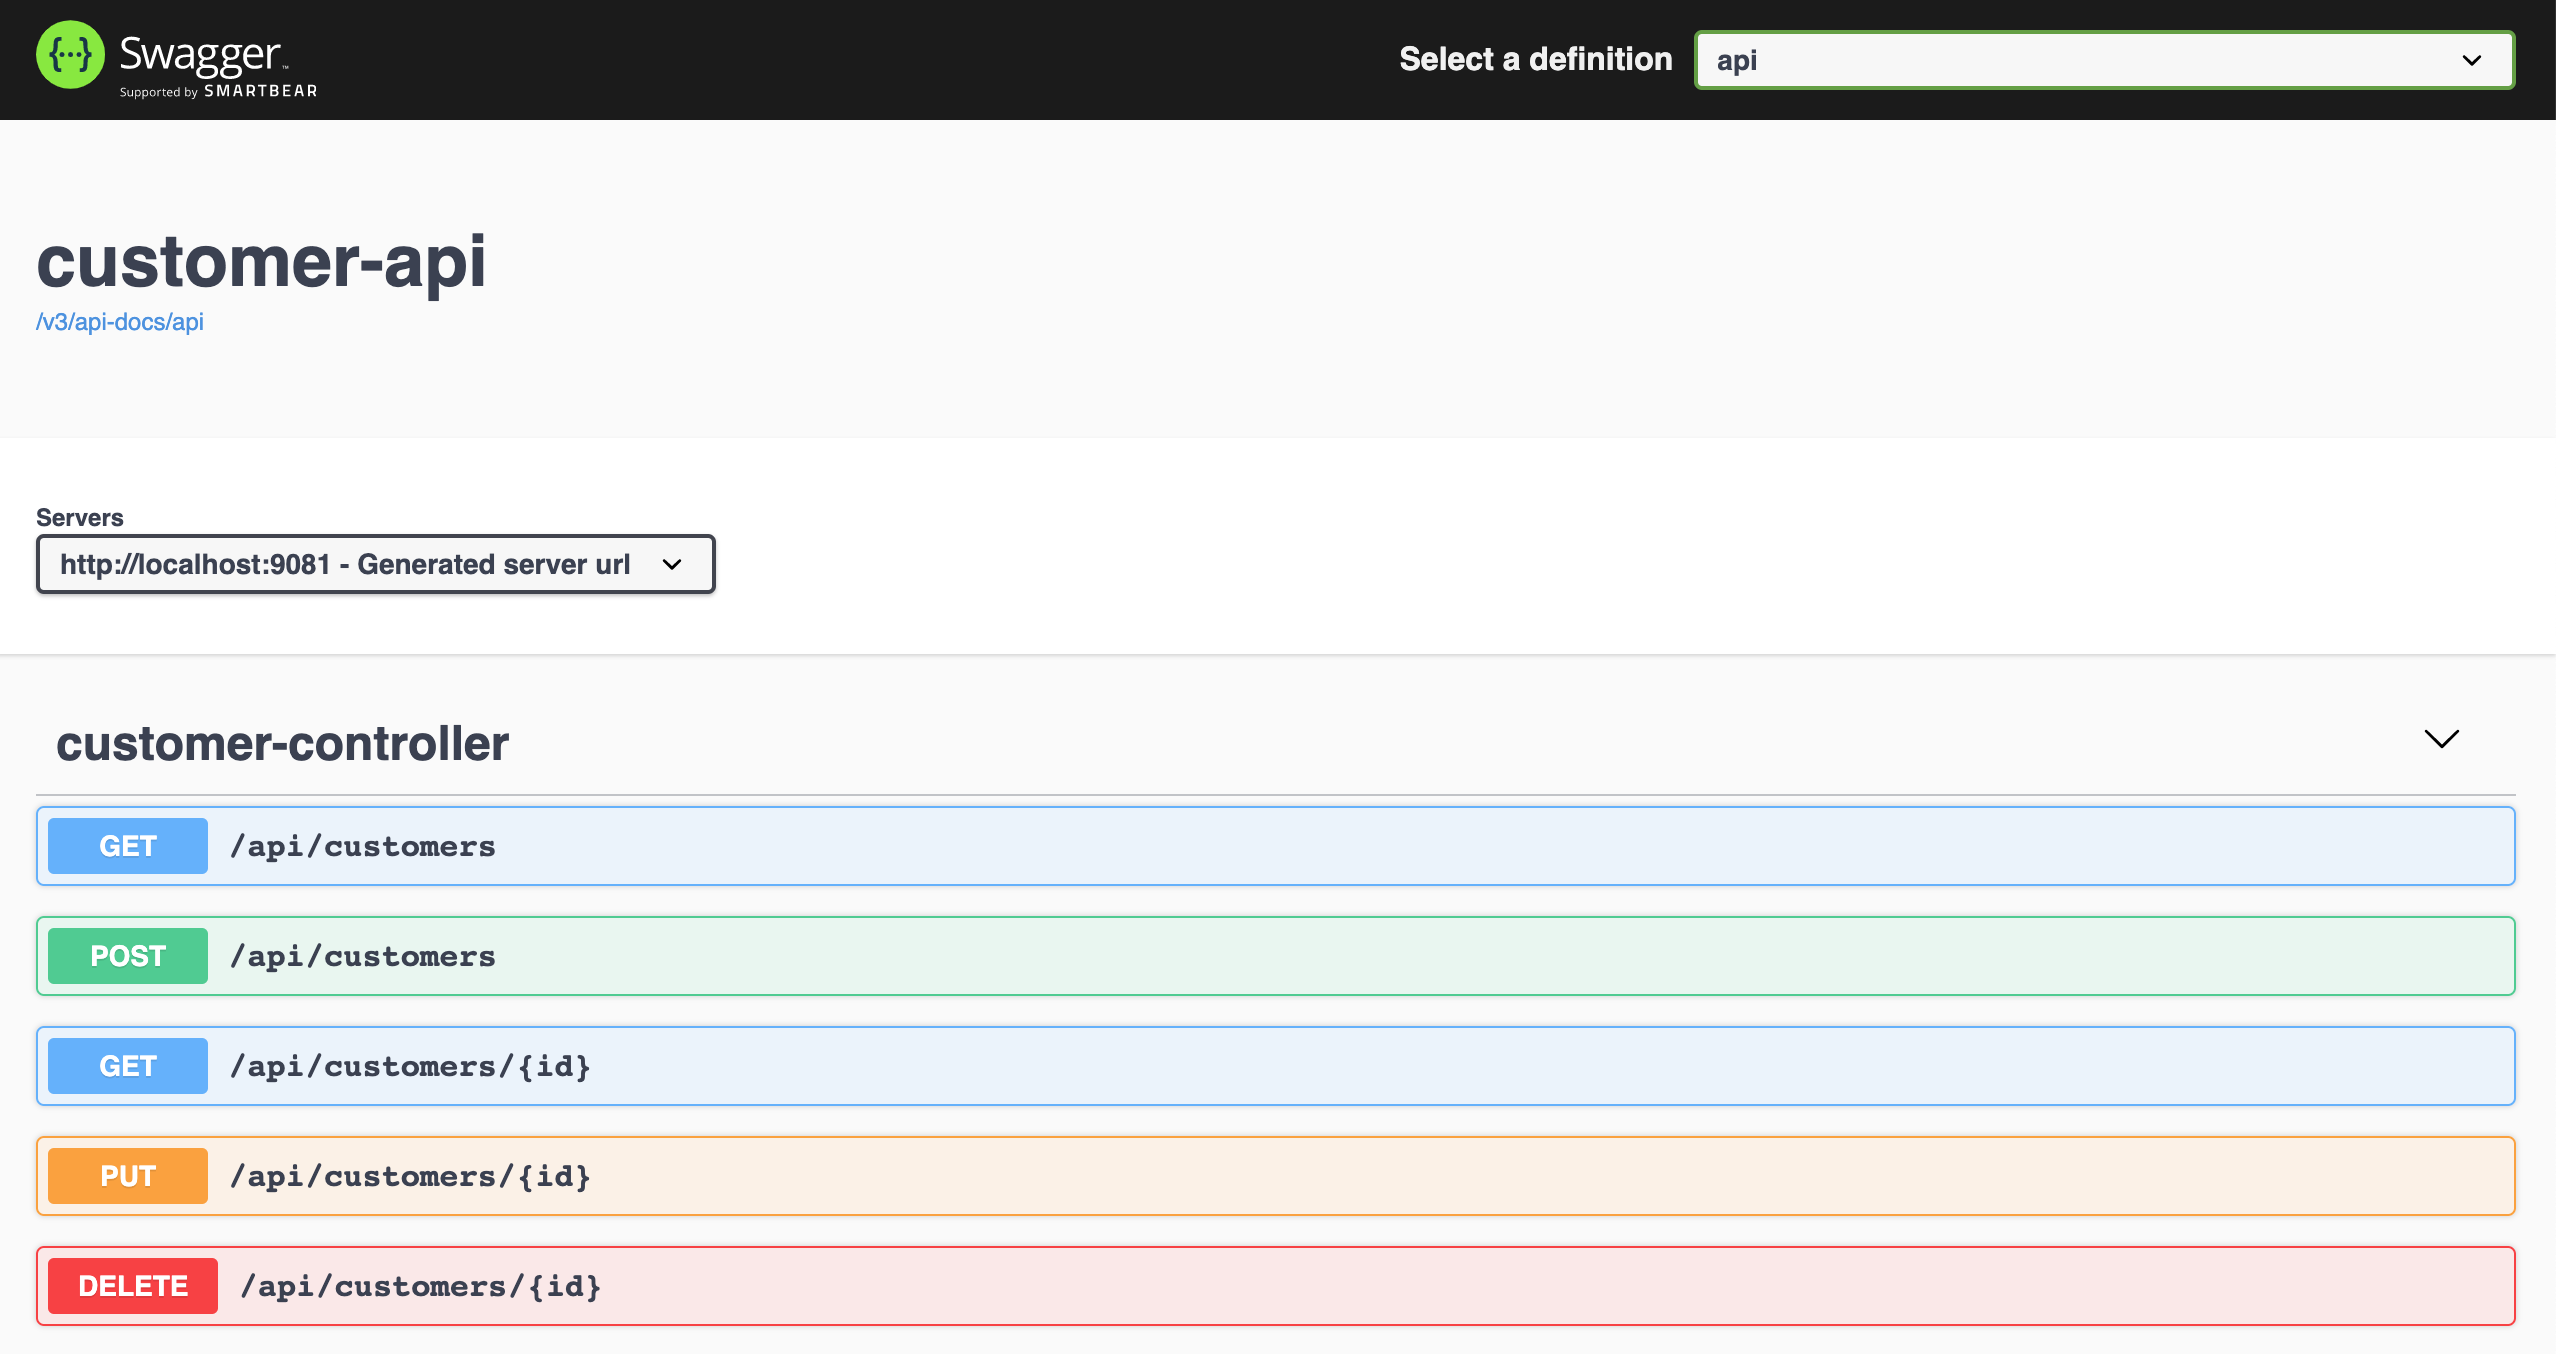
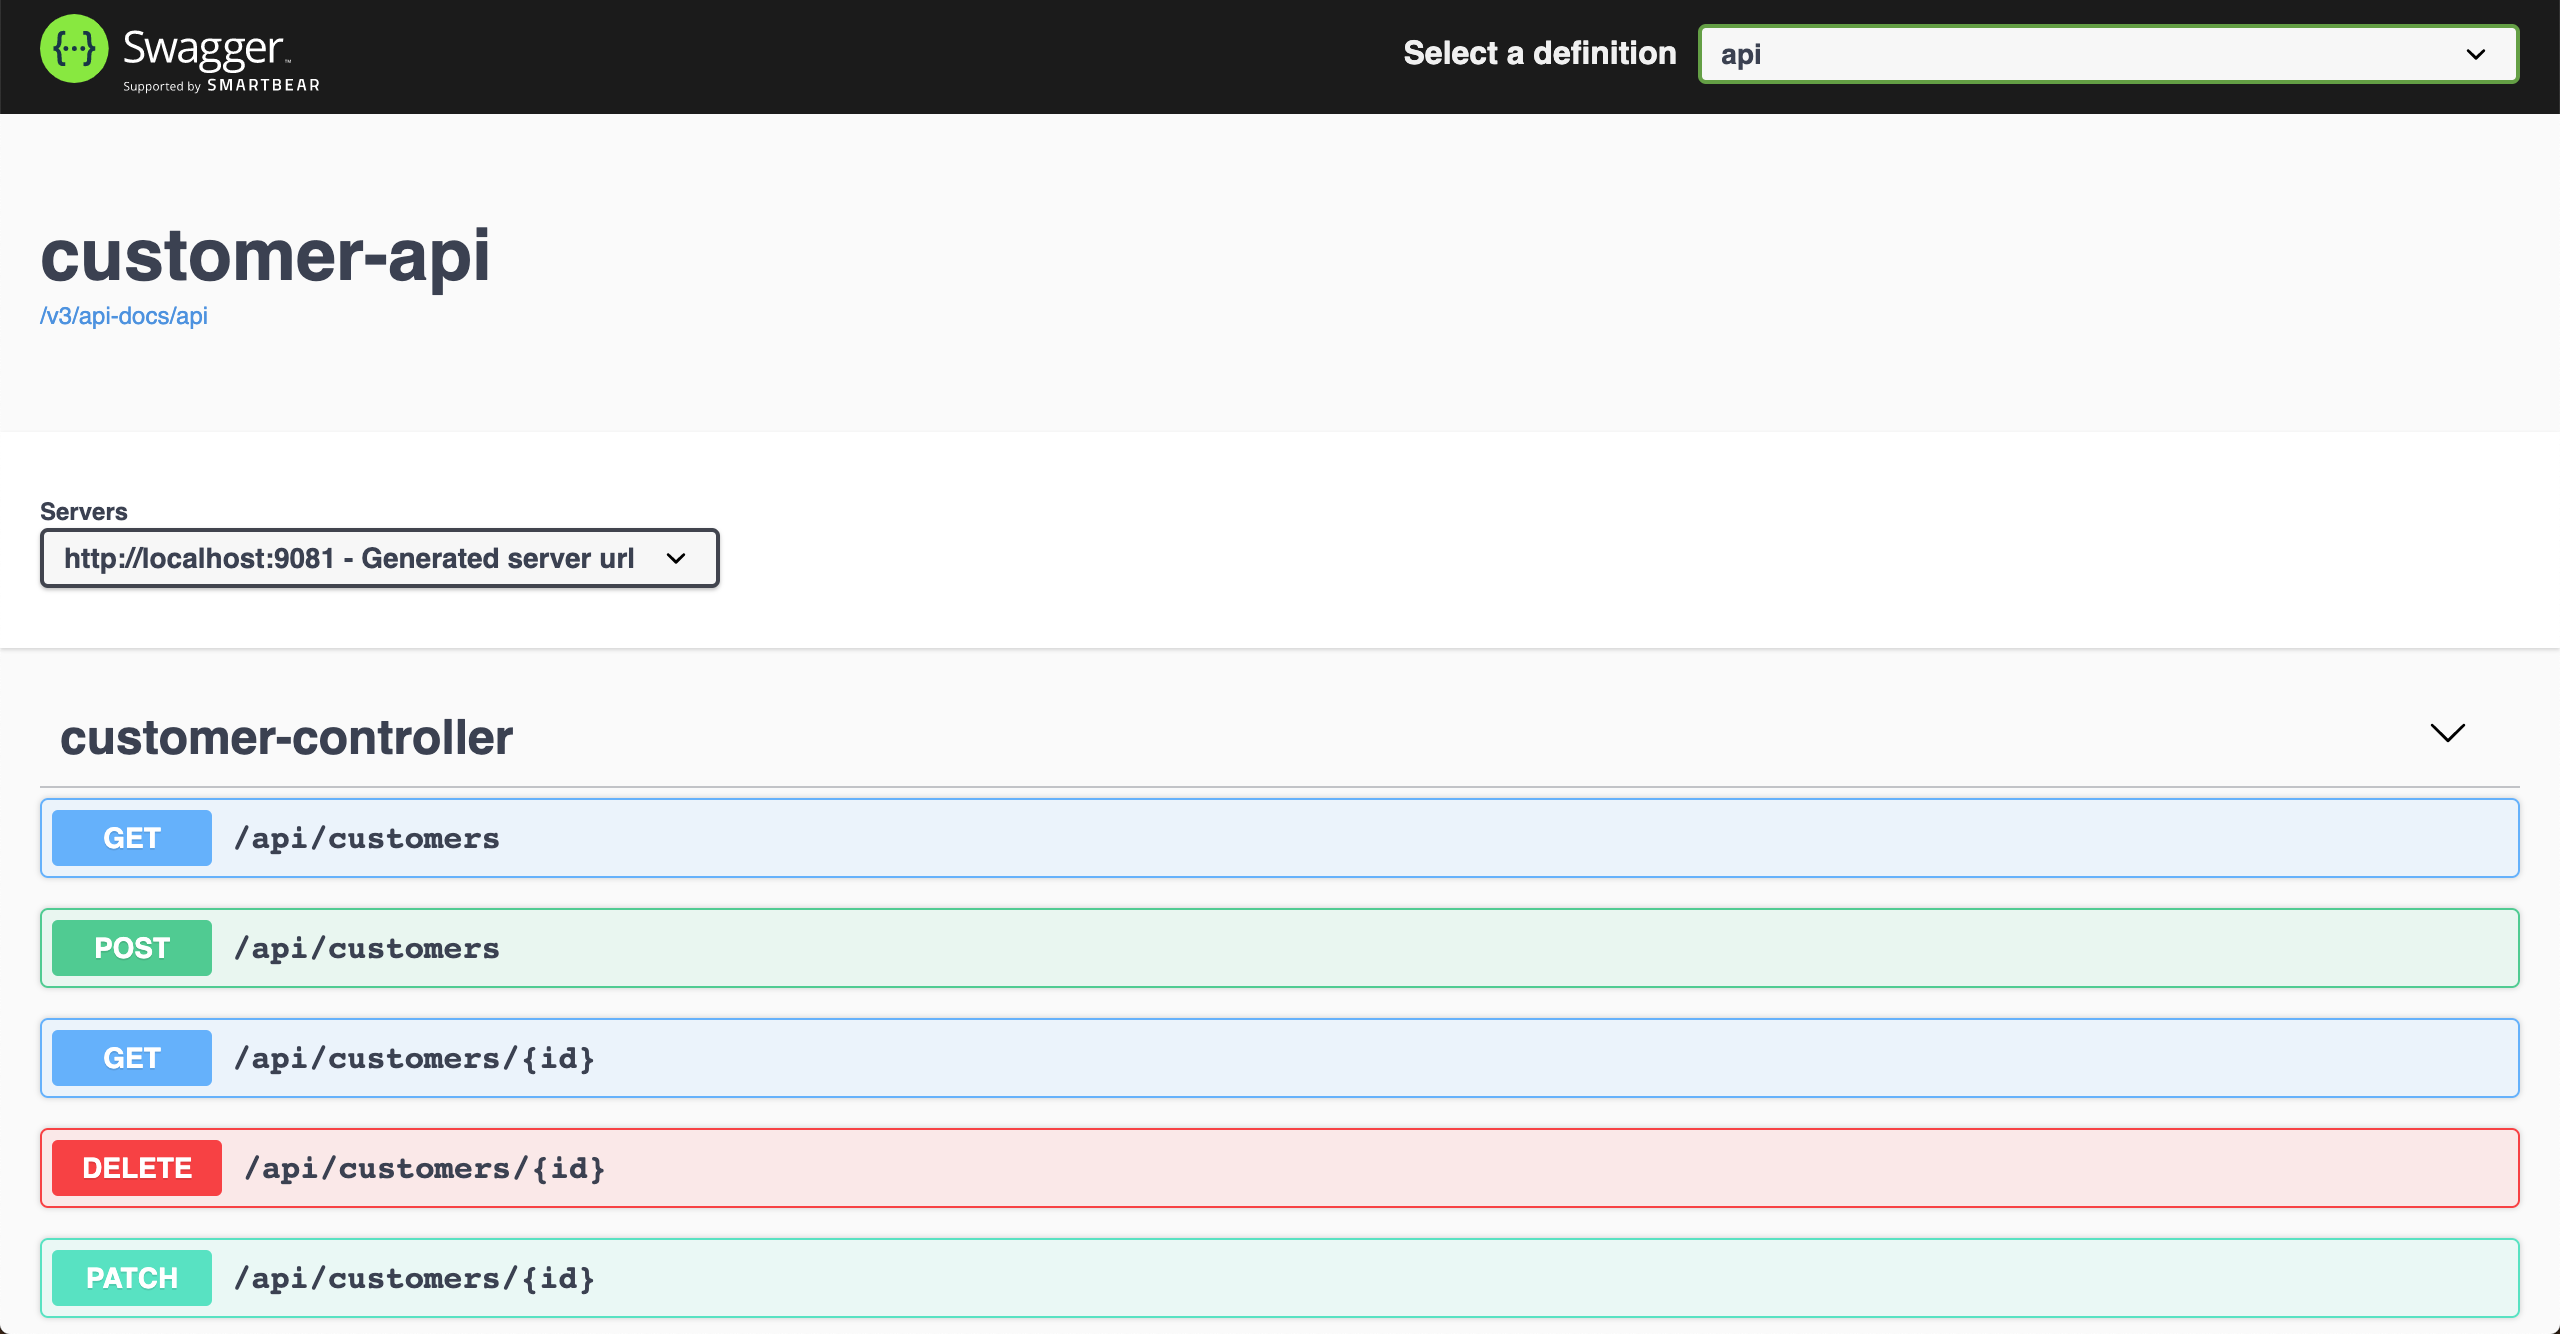
replace PutMapping to PatchMapping

diff --git a/customer-api/src/main/java/com/mycompany/customerapi/rest/CustomerController.java b/customer-api/src/main/java/com/mycompany/customerapi/rest/CustomerController.java
@@ -10,9 +10,9 @@ import lombok.RequiredArgsConstructor;
 import org.springframework.http.MediaType;
 import org.springframework.web.bind.annotation.DeleteMapping;
 import org.springframework.web.bind.annotation.GetMapping;
+import org.springframework.web.bind.annotation.PatchMapping;
 import org.springframework.web.bind.annotation.PathVariable;
 import org.springframework.web.bind.annotation.PostMapping;
-import org.springframework.web.bind.annotation.PutMapping;
 import org.springframework.web.bind.annotation.RequestBody;
 import org.springframework.web.bind.annotation.RequestMapping;
 import org.springframework.web.bind.annotation.RestController;
@@ -45,7 +45,7 @@ public class CustomerController {
         return customerService.saveCustomer(customer).map(customerMapper::toCustomerDto);
     }
 
-    @PutMapping("/{id}")
+    @PatchMapping("/{id}")
     public Mono<CustomerDto> updateCustomer(@PathVariable Long id, @Valid @RequestBody UpdateCustomerDto updateCustomerDto) {
         return customerService.validateAndGetCustomer(id)
                 .doOnSuccess(customer -> {

diff --git a/product-api/src/main/java/com/mycompany/productapi/rest/ProductController.java b/product-api/src/main/java/com/mycompany/productapi/rest/ProductController.java
@@ -11,9 +11,9 @@ import org.springframework.http.HttpStatus;
 import org.springframework.http.MediaType;
 import org.springframework.web.bind.annotation.DeleteMapping;
 import org.springframework.web.bind.annotation.GetMapping;
+import org.springframework.web.bind.annotation.PatchMapping;
 import org.springframework.web.bind.annotation.PathVariable;
 import org.springframework.web.bind.annotation.PostMapping;
-import org.springframework.web.bind.annotation.PutMapping;
 import org.springframework.web.bind.annotation.RequestBody;
 import org.springframework.web.bind.annotation.RequestMapping;
 import org.springframework.web.bind.annotation.ResponseStatus;
@@ -48,7 +48,7 @@ public class ProductController {
         return productService.saveProduct(product).map(productMapper::toProductDto);
     }
 
-    @PutMapping("/{id}")
+    @PatchMapping("/{id}")
     public Mono<ProductDto> updateProduct(@PathVariable String id, @RequestBody UpdateProductDto updateProductDto) {
         return productService.validateAndGetProduct(id)
                 .doOnSuccess(product -> {
